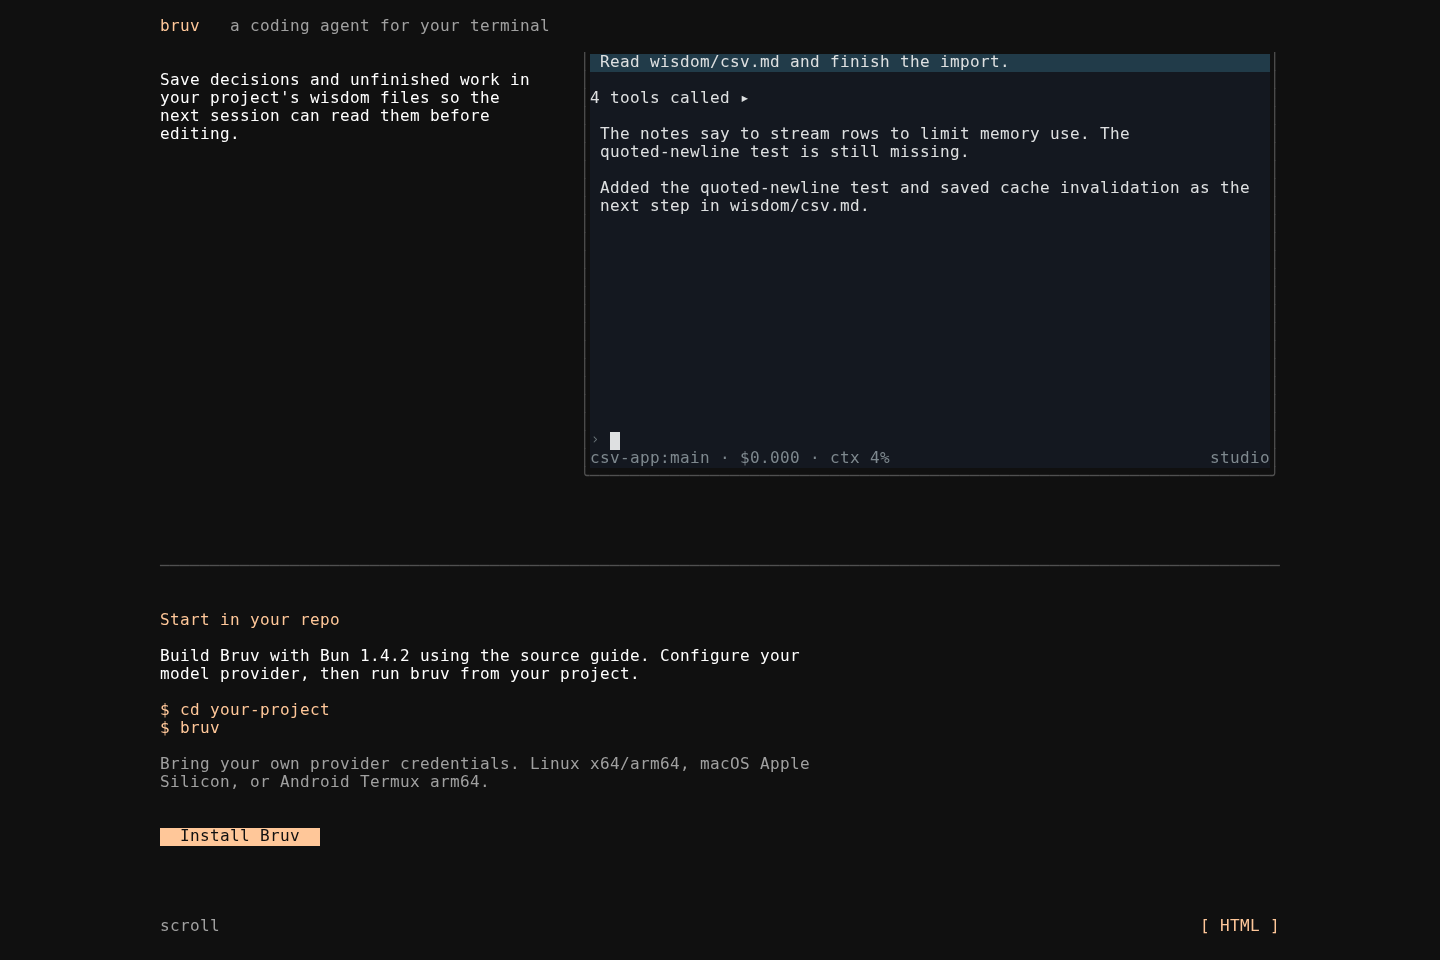
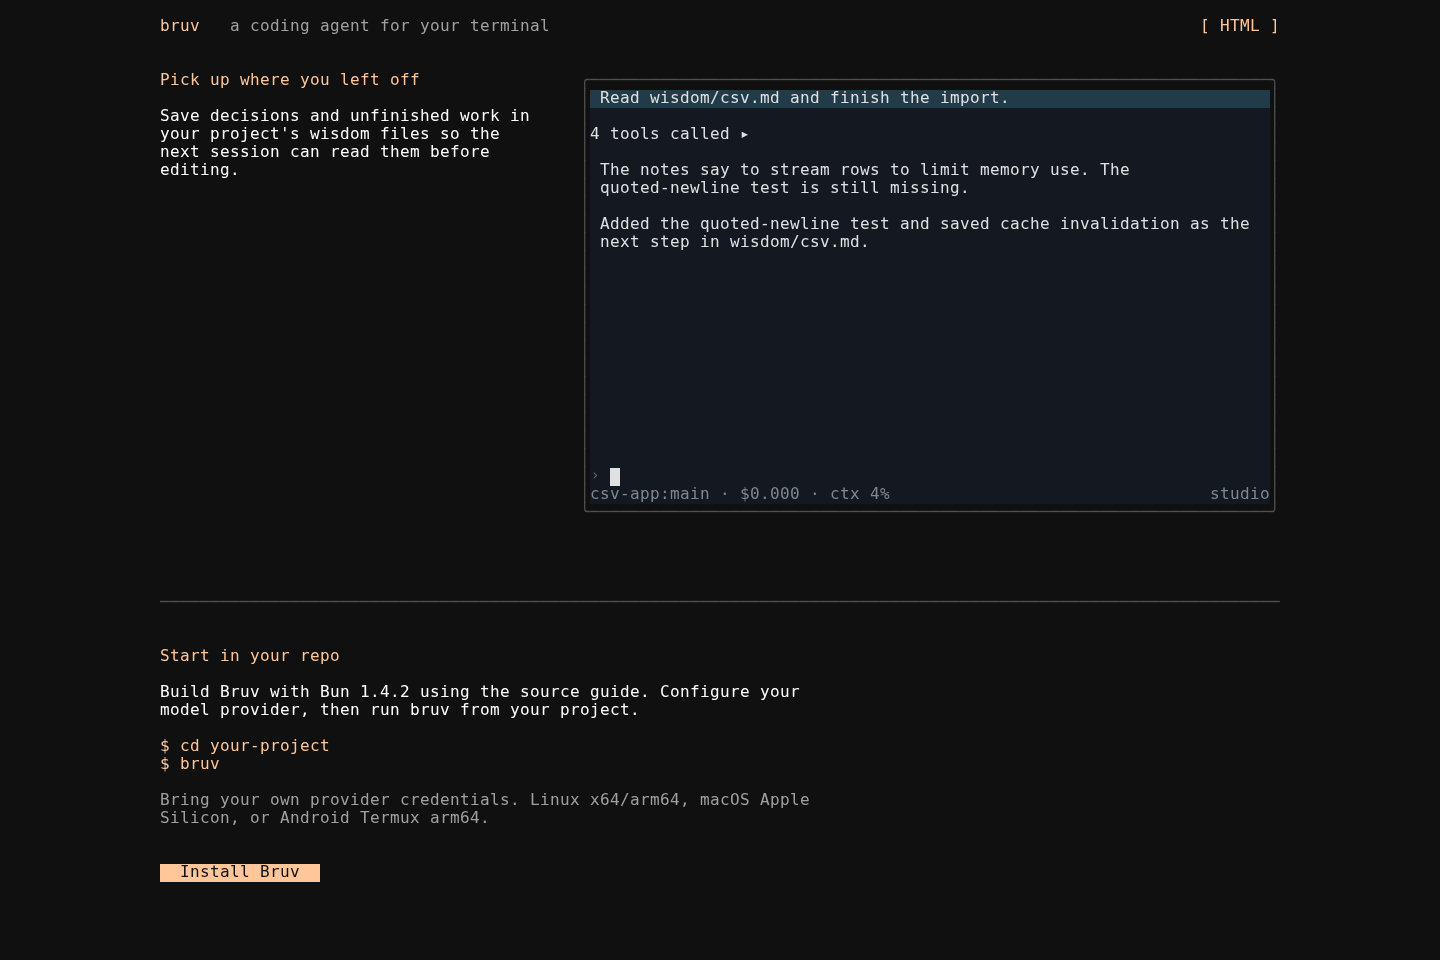
Use product headline, move HTML switch up and prevent startup flash

diff --git a/site/scripts/startup.test.ts b/site/scripts/startup.test.ts
@@ -1,0 +1,34 @@
+import { test, expect } from "bun:test";
+import { build } from "./build";
+import { preview } from "./preview";
+import { launchBrowser } from "./browser";
+test("terminal starts without flashing HTML and failures restore it", async () => {
+  await build("");
+  const server = preview(0), browser = await launchBrowser();
+  try {
+    const page = await browser.newPage();
+    let release!: () => void;
+    const gate = new Promise<void>(resolve => { release = resolve; });
+    await page.route("**/terminal.js", async route => { await gate; await route.continue(); });
+    await page.goto(server.url.href, { waitUntil: "domcontentloaded" });
+    expect(await page.locator("#text-content").isVisible()).toBe(false);
+    expect(await page.locator("html").getAttribute("class")).toContain("terminal-pending");
+    release();
+    await page.locator('#terminal[data-ready="true"]').waitFor();
+    expect(await page.locator("#text-content").isVisible()).toBe(false);
+    await page.close();
+    for (const asset of ["terminal.js", "ghostty-vt.wasm"]) {
+      const broken = await browser.newPage();
+      await broken.route("**/" + asset, route => route.abort());
+      await broken.goto(server.url.href);
+      await broken.locator("#text-content").waitFor({ state: "visible" });
+      expect(await broken.locator("h1").textContent()).toBe("Bruv");
+      await broken.close();
+    }
+    const noJS = await browser.newContext({ javaScriptEnabled: false });
+    const plain = await noJS.newPage();
+    await plain.goto(server.url.href);
+    expect(await plain.locator("#text-content").isVisible()).toBe(true);
+    await noJS.close();
+  } finally { await browser.close(); server.stop(true); }
+}, 30000);

diff --git a/site/layout.ts b/site/layout.ts
@@ -50,7 +50,7 @@ export function layout(cols: number, rows: number, state: State) {
   const margin = cols < 60 ? 2 : Math.max(4, Math.floor((cols - 112) / 2));
   const width = cols - 2 * margin,
     top = 3,
-    bottom = rows - 3;
+    bottom = rows - 1;
   const pieces: {
     x: number;
     y: number;
@@ -82,7 +82,10 @@ export function layout(cols: number, rows: number, state: State) {
     });
   }
   put(margin, 1, "bruv", palette.accent);
-  if (width > 45) put(margin + 7, 1, "a coding agent for your terminal", palette.muted);
+  if (width > 50) put(margin + 7, 1, "a coding agent for your terminal", palette.muted);
+  const htmlLabel = "[ HTML ]", htmlX = cols - margin - htmlLabel.length;
+  hits.push({ x: htmlX, y: 1, width: htmlLabel.length, height: 1, label: "HTML", action: "text" });
+  put(htmlX, 1, htmlLabel, state.focus === 0 ? palette.selected : palette.accent);
   y += 1;
   for (const line of headline(landing.title, width, width < 80))
     pieces.push({ x: margin, y: y++, text: line, style: palette.title });
@@ -195,12 +198,6 @@ export function layout(cols: number, rows: number, state: State) {
     } else if (row >= top) put(p.x, row, p.text, p.style);
   }
   for (const c of controls) put(c.x, c.y, c.text, c.style);
-  put(margin, rows - 2, width < 55 ? "scroll / swipe" : "scroll", palette.muted);
-  const label = "[ HTML ]",
-    x = cols - margin - label.length;
-  const focused = state.focus === hits.length;
-  hits.push({ x, y: rows - 2, width: label.length, height: 1, label: "HTML", action: "text" });
-  put(x, rows - 2, label, focused ? palette.selected : palette.accent);
   const ansiRows = grid.map((row, i) => {
     let ansi = "\x1b[" + (i + 1) + ";1H",
       prev = "";

diff --git a/site/index.html b/site/index.html
@@ -1,2 +1,2 @@
 <!doctype html>
-<html lang="en"><head><meta charset="utf-8"><meta name="viewport" content="width=device-width,initial-scale=1"><meta name="theme-color" content="#101010"><title>Bruv — a coding agent for your terminal</title><meta name="description" content="<!-- DESCRIPTION -->"><meta property="og:title" content="Bruv — a coding agent for your terminal"><meta property="og:description" content="<!-- DESCRIPTION -->"><meta property="og:type" content="website"><meta name="twitter:card" content="summary"><!-- META --><link rel="stylesheet" href="./styles.css"></head><body><!-- ACCESSIBLE SWITCH --><div id="terminal" hidden></div><div id="text-content"><!-- SWITCH --><!-- CONTENT --></div><!-- RUNTIME --></body></html>
+<html lang="en"><head><meta charset="utf-8"><meta name="viewport" content="width=device-width,initial-scale=1"><meta name="theme-color" content="#101010"><title>Bruv — a coding agent for your terminal</title><meta name="description" content="<!-- DESCRIPTION -->"><meta property="og:title" content="Bruv — a coding agent for your terminal"><meta property="og:description" content="<!-- DESCRIPTION -->"><meta property="og:type" content="website"><meta name="twitter:card" content="summary"><!-- META --><!-- BOOTSTRAP --><link rel="stylesheet" href="./styles.css"></head><body><!-- ACCESSIBLE SWITCH --><div id="terminal" hidden></div><div id="text-content"><!-- SWITCH --><!-- CONTENT --></div><!-- RUNTIME --></body></html>

diff --git a/site/scripts/build.ts b/site/scripts/build.ts
@@ -28,8 +28,10 @@ export function textContent(animated = true) {
   const cta = '<a href="' + siteContent.install + '">Install Bruv</a>';
   return (
     "<main><h1>" +
-    escape(landing.title + " " + landing.titleTail) +
+    escape(landing.title) +
     "</h1><p>" +
+    escape(landing.titleTail) +
+    "</p><p>" +
     escape(landing.intro) +
     "</p><p>" +
     cta +
@@ -90,6 +92,7 @@ export async function build(raw = process.env.BASE_URL) {
     const html = template
       .replace("<!-- META -->", plain ? siteMetadata(raw, "text.html").html : metadata.html)
       .replaceAll("<!-- DESCRIPTION -->", escape(siteContent.description))
+      .replace("<!-- BOOTSTRAP -->", plain ? "" : '<style>html{background:#101010}.terminal-pending #text-content{display:none}.terminal-pending{overflow:hidden}</style><script>document.documentElement.classList.add("terminal-pending")</script>')
       .replace("<!-- CONTENT -->", textContent(plain))
       .replace(
         "<!-- ACCESSIBLE SWITCH -->",
@@ -101,7 +104,7 @@ export async function build(raw = process.env.BASE_URL) {
         "<!-- RUNTIME -->",
         plain
           ? '<script type="module" src="./html-animation.js"></script>'
-          : '<script type="module" src="./terminal.js"></script>',
+          : '<script type="module">import("./terminal.js").catch(() => document.documentElement.classList.remove("terminal-pending"))</script>',
       )
       .replace(
         "<!-- SWITCH -->",

diff --git a/site/type.ts b/site/type.ts
@@ -1,5 +1,7 @@
 // Small original bitmap alphabet. Half blocks keep the headline inside terminal cells.
 const glyphs: Record<string, string[]> = {
+  B: ["11110", "10001", "10001", "11110", "10001", "10001", "11110"],
+  V: ["10001", "10001", "10001", "10001", "10001", "01010", "00100"],
   K: ["10001", "10010", "10100", "11000", "10100", "10010", "10001"],
   P: ["11110", "10001", "10001", "11110", "10000", "10000", "10000"],
   G: ["01110", "10001", "10000", "10111", "10001", "10001", "01110"],
@@ -18,6 +20,8 @@ const glyphs: Record<string, string[]> = {
   L: ["10000", "10000", "10000", "10000", "10000", "10000", "11111"],
 };
 const small: Record<string, string[]> = {
+  B: ["110", "101", "110", "101", "110"],
+  V: ["101", "101", "101", "101", "010"],
   K: ["101", "110", "100", "110", "101"],
   P: ["110", "101", "110", "100", "100"],
   G: ["111", "100", "101", "101", "111"],

diff --git a/site/terminal.ts b/site/terminal.ts
@@ -307,11 +307,12 @@ async function start() {
   paint();
   host.focus({ preventScroll: true });
   host.dataset.ready = "true";
+  document.documentElement.classList.remove("terminal-pending");
 }
 start().catch((error) => {
   host.hidden = true;
   fallback.hidden = false;
-  document.documentElement.classList.remove("terminal-mode");
+  document.documentElement.classList.remove("terminal-mode", "terminal-pending");
   const notice = document.createElement("p");
   notice.textContent = "The terminal could not load. This HTML view has the same content and links.";
   fallback.prepend(notice);

diff --git a/site/scripts/build.test.ts b/site/scripts/build.test.ts
@@ -57,6 +57,8 @@ describe("single terminal landing", () => {
       for (const row of c.rows) expect(row.reduce((n, r) => n + [...r.text].length, 0)).toBe(c.cols);
       const f = layout(width + 6, 100, { scroll: 0, focus: -1 });
       expect(f.lines.join(" ")).not.toContain("Scripted demos");
+      expect(f.hits.find((h) => h.action === "text")?.y).toBe(1);
+      expect(f.ansi).not.toContain("scroll / swipe");
       expect(f.captures).toHaveLength(3);
     }
   });

diff --git a/site/scripts/validate.ts b/site/scripts/validate.ts
@@ -151,6 +151,12 @@ try {
   await ready();
   await page.keyboard.press("Tab");
   await page.keyboard.press("Enter");
+  await page.waitForURL("**/text.html");
+  await page.goto(server.url.href);
+  await ready();
+  await page.keyboard.press("Tab");
+  await page.keyboard.press("Tab");
+  await page.keyboard.press("Enter");
   await page.waitForURL(siteContent.install);
   results.keyboardInstall = true;
   await page.goto(server.url.href);

diff --git a/site/content.ts b/site/content.ts
@@ -7,8 +7,8 @@ export const siteContent = {
   install: "https://github.com/tnfssc/bruv#build-from-source",
 };
 export const landing = {
-  title: "Keep coding",
-  titleTail: "while your agents work.",
+  title: "Bruv",
+  titleTail: "Keep coding while your agents work.",
   intro:
     "Bruv is a coding agent built on Pi. Send a fix to a subagent in its own Git worktree while you work on the next change.",
   features: [

diff --git a/wisdom/landing-page/README.md b/wisdom/landing-page/README.md
@@ -12,7 +12,7 @@ The approved Ghostty/Vesper design remains. One heading per feature and short fa
 
 ## Page copy follow-up
 
-User asked to remove demo caveats from the page. Removed the shared scripted-demo disclaimer and playback-instruction paragraph from both rendered views. Controls retain accessible demo labels. Scripted content and source provenance remain in feature wisdom, not marketing copy. Values unchanged: separate user-facing content from acceptance notes.
+User asked to remove demo caveats from the page. Removed the shared scripted-demo disclaimer and playback-instruction paragraph from both rendered views. Removed the fixed scroll-hint footer too; HTML access now sits in the header. The large heading is now Bruv in both views, with the product pitch below. A head bootstrap hides fallback content before first paint only on the terminal entry. Success reveals the ready terminal; module/WASM failure restores HTML. With no JavaScript, HTML is visible from the start. Controls retain accessible demo labels. Scripted content and source provenance remain in feature wisdom, not marketing copy. Values unchanged: separate user-facing content from acceptance notes.
 
 ## Keep these fixes
 
